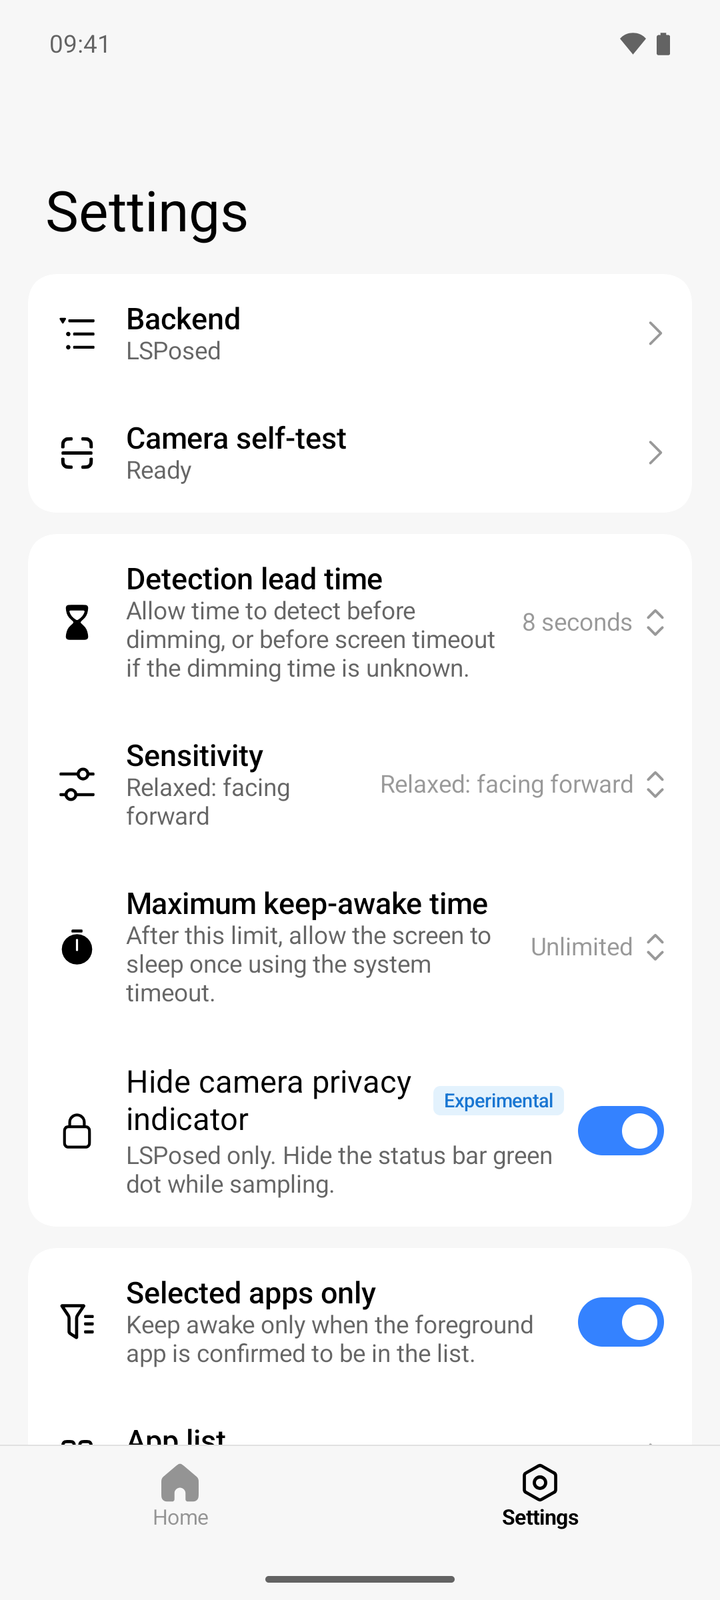
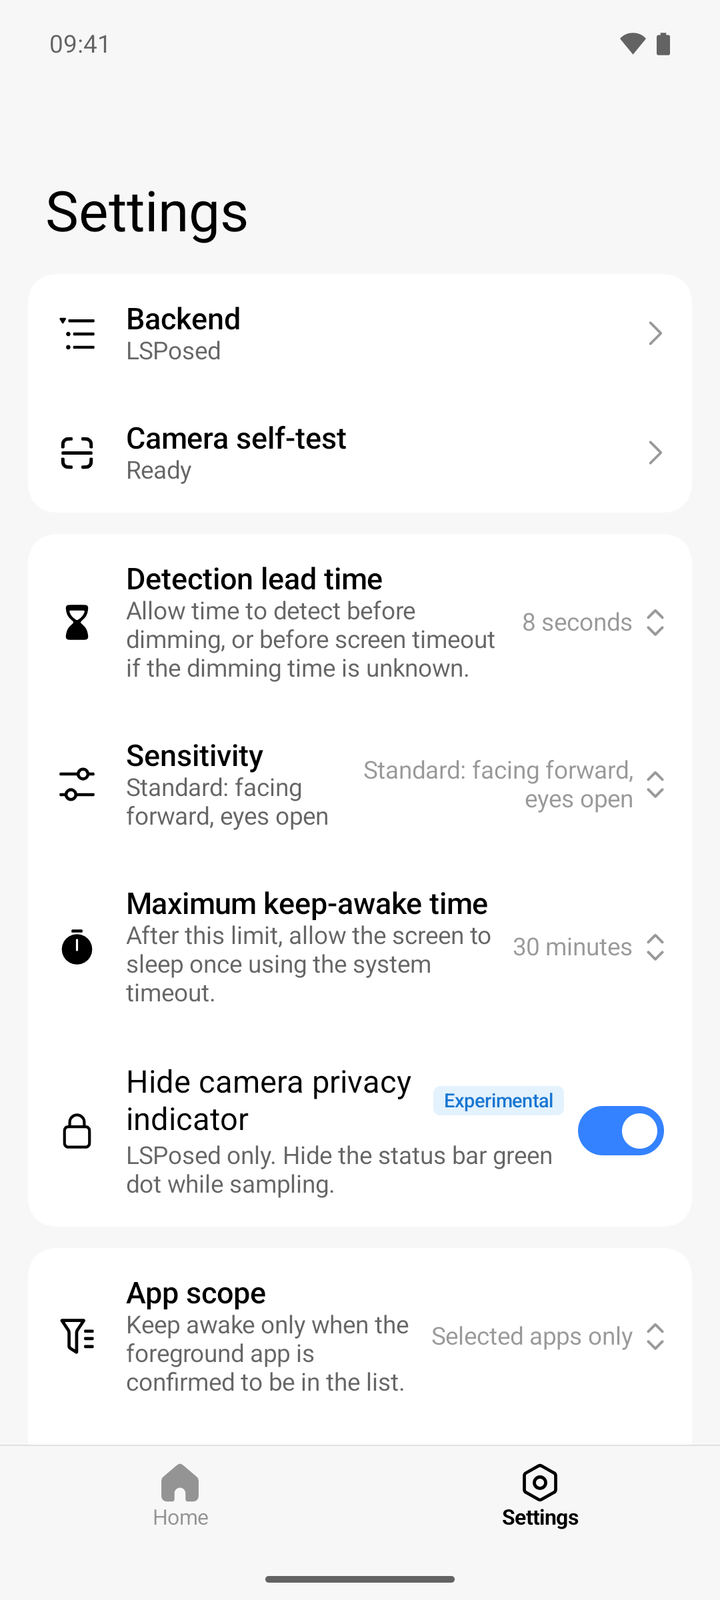
docs(docs): 📝 更新 README 设置页与应用列表截图并记录生效范围真机验收结果
- 在 Pixel_8_API_35 模拟器以演示状态栏重拍中英文设置页与应用列表截图，表头改为应用列表
- 任务清单记录 Xiaomi 12 Pro 上三种后端的黑名单门控、HyperOS 系统应用判定与英文/深色/大字体走查结果，收敛已完成待办并登记未复现的应用语言问题
- 同步文档索引的复核日期与无障碍架构加载时机

diff --git a/docs/plans/todo.md b/docs/plans/todo.md
@@ -42,7 +42,7 @@
 - 运行门控：直接写入自检时间戳以绕过真人自检（只改模拟器上的数据，不改产品代码），后端 Auto 实际使用无障碍，系统超时 30 s。黑名单内的 Maps 门控记录 `skip=Blacklisted`，不启动相机，约 30.7 s 按原超时熄屏；名单外的 Chrome 门控放行并采样，虚拟相机无脸记为 Away，不延后，约 30.2 s 熄屏。
 - 实机套件：`test:device` 退出码 0；新增的黑名单回读用例连续通过并恢复原范围与名单。`ScreenTimeoutRestoreTest` 因开启后主页停在「等待可用后端」而按前提跳过，`main` 构建在同一模拟器上结果相同，记为未执行。
 - 观察：用 `settings put` 在应用运行期间开启无障碍后，主页与后端页仍显示无障碍未就绪，但服务已用无障碍进入 Armed，重装后恢复一致；`ScreenTimeoutRestoreTest` 按前提跳过时没有关闭它刚开启的服务。两者均与本次改动无关，待单独排查。
-- 未执行：真机与真实 ROM 上的黑名单门控、Shizuku/LSPosed 后端下的黑名单前台识别、真人自检后的完整保亮链路。官网展示区与预编译 kmp-showcase 产物仍是旧的白名单开关界面，README 截图未更新。
+- 真机结果见下节「生效范围与应用列表真机验收」。
 
 ## 应用列表系统应用显示与批量操作（2026-10-31）
 
@@ -52,7 +52,26 @@
 - 系统应用判定：Chrome 带 `UPDATED_SYSTEM_APP`，默认显示；Maps、YouTube、设置、时钟等未更新的预装应用默认隐藏；已选的 Gmail（未更新的系统应用）在隐藏状态下仍显示。
 - 交互：搜索 `maps` 时提示「已隐藏 1 个匹配的系统应用」，点按后显示 Maps 并写入 `gazekeep_ui_prefs`；重装（进程重启）后开关仍为开启。搜索非空时「选中搜索结果」把 Maps 并入白名单（2→3）；清空经确认对话框，取消保持 3 个，确认后为 0 且菜单不再提供清空；关闭开关后本页操作过的 Maps、Gmail 仍可见，其余系统应用隐藏。
 - 修复：首轮验收发现搜索时打开菜单，输入法候选栏覆盖菜单；改为打开菜单前清除焦点，复测 `mInputShown` 由 true 变为 false。日志页菜单有相同的打开方式，未在本次处理。
-- 测试后恢复白名单 Chrome、Gmail 并删除 `gazekeep_ui_prefs`。未执行：真机与 HyperOS 等 ROM 上的系统应用标志核对、英文界面实机走查、深色模式与大字体下的菜单和对话框。
+- 测试后恢复白名单 Chrome、Gmail 并删除 `gazekeep_ui_prefs`。真机结果见下节。
+
+## 生效范围与应用列表真机验收（2026-11-01）
+
+环境同上方真机矩阵（Xiaomi 12 Pro，HyperOS `OS2.0.6.0.ULGCNXM`，LSPosed 2.2.1 + Sui/Shizuku），arm64 Debug 包为 `f0ee8b2` 加本节修复的未提交工作树，覆盖安装并保留数据；系统超时 60 s、提前量 8 s、宽松灵敏度、上限无限制。门控结论取自调试日志的 `DecisionRecord` 与 `dumpsys power` 的 `mWakefulness`，Chrome 为黑名单应用，便签（`com.miui.notes`）为名单外应用。
+
+| 后端（锁定）     | 黑名单内 Chrome                                                               | 名单外便签                        |
+| ---------------- | ----------------------------------------------------------------------------- | --------------------------------- |
+| LSPosed          | `skip=Blacklisted` ×2，按原超时熄屏                                           | 放行、真人注视 Looking、延长 3 次 |
+| Shizuku          | `skip=Blacklisted`，约 58 s 熄屏                                              | 放行、Looking、延长 4 次          |
+| 无障碍（修复前） | 首轮 Blacklisted，随后被换成名单外                                            | —                                 |
+| 无障碍（修复后） | `skip=Blacklisted`，约 60 s 熄屏；中途注入滑动后仍 Blacklisted 并约 59 s 熄屏 | 放行、Looking、延长 2 次          |
+
+- 无障碍前台缺陷：修复前无障碍后端把任何包的窗口状态事件当作前台，HyperOS 传送门 `com.miui.contentextension` 的事件把仍在前台的 Chrome 换成名单外包名，于是放行并延长 2 次。现在只接受能解析为该包 Activity 的事件（`A11yForegroundTest` 在旧实现下失败后通过），修复后复测见上表；传送门事件的触发条件未定位，修复后未再出现。
+- 系统应用判定（HyperOS）：启动器可见 234 个应用，带 `FLAG_SYSTEM` 的 19 个中 13 个为 `UPDATED_SYSTEM_APP`（浏览器、日历、相册、视频、应用商店等）默认显示；未更新的相机、文件管理、短信、下载管理、设置与 `com.miui.miservice` 6 个默认隐藏，打开「显示系统应用」后出现。`/product/data-app` 的可卸载预装（笔记、计算器、天气、多看等）安装为普通应用，不带系统标志，按用户应用显示。
+- 走查：深色模式下中文与英文、字体 1.3 倍的设置页、应用页更多菜单、清空确认对话框均完整显示；清空确认后名单为 0 且菜单不再提供清空。英文发现「1 apps excluded」等单复数错误，计数文案改为「Excluded: 1」「Selected: 1」等写法，自定义提前量与上限改用 `s`/`min`。英文 1.3 倍字体下生效范围说明被右侧取值挤成窄列，与灵敏度等行同一布局，未改。搜索相关操作因输入法会改写 `input text` 未在真机执行，以模拟器结果为准。
+- 无障碍开启：`settings put` 写入的 GazeKeep 服务会被系统从列表剔除，系统设置中开关为灰色并提示受限制的设置；临时把 `ACCESS_RESTRICTED_SETTINGS` 设为 allow 后由用户手动开启，测试后关闭并恢复为 deny。使用说明已补充该限制。
+- 观察：一次在用户开启无障碍后，按应用语言为英文时设置页与后端页显示为中文（少数文案仍为英文）；之后杀进程由服务拉起、改字体、往返系统设置和重新开启无障碍均未复现，原因未定位。
+- 官网与 README：重新生成 kmp-showcase 预编译产物，官网生效范围、常见问题与开始步骤文案补充黑名单；README 设置页与应用列表截图（中英各 2 张）在 `Pixel_8_API_35` 模拟器以演示状态栏重拍。
+- 测试后恢复：无障碍列表、受限设置、字体、应用语言、悬浮通知、输入法和 GazeKeep 配置文件（逐字节比对一致），调试日志已关闭并清空，删除 `gazekeep_ui_prefs`。
 
 ## 官网当前验证（2026-10-30）
 
@@ -76,8 +95,8 @@
 - [ ] 在支持 WebGPU 的真实设备补验 Shader、主题切换、离屏/后台恢复和 120 Hz 表现；补 Safari/Firefox、实体触摸、地址栏伸缩和系统缩放矩阵。
 - [ ] 完成 `v1.1.3` 模块仓库真实同步，确认 Release 非草稿、索引 bot 成功，并在 LSPosed 管理器中验证安装和更新提示。
 - [ ] 维护者离线备份正式签名密钥库与密码；密钥丢失后无法覆盖升级已安装版本。
-- [ ] 在真机上验收生效范围的黑名单门控，覆盖三种后端的前台识别；重新生成官网 kmp-showcase 产物、更新官网展示区和 README 应用列表截图。
-- [ ] 在真机与 HyperOS 等 ROM 上核对应用列表的系统应用判定（预装第三方应用的标志因 ROM 而异），并走查英文、深色与大字体下的菜单和清空对话框。
+- [ ] 在 HyperOS 以外的 ROM 上核对应用列表的系统应用判定（预装应用的标志因 ROM 而异）与无障碍后端的前台识别。
+- [ ] 排查按应用语言为英文时页面偶发显示中文的问题（触发条件未知，见上方真机验收）。
 - [ ] 排查外部开启无障碍后页面就绪状态不刷新的问题，以及 `ScreenTimeoutRestoreTest` 按前提跳过时残留已开启服务的问题。
 
 以上未执行项不计为当前版本通过；实际 APK、设备、ROM、框架和权限条件变化时必须重新标识产物并重跑受影响验收。

diff --git a/.agents/docs-index.md b/.agents/docs-index.md
@@ -20,7 +20,7 @@
 | 文档                          | 类型     | 加载时机                             | 维护状态 | 最后复核   |
 | ----------------------------- | -------- | ------------------------------------ | -------- | ---------- |
 | `../docs/product/overview.md` | 产品规范 | 核对目标、范围、默认行为与结果语言时 | 持续维护 | 2026-10-31 |
-| `../docs/product/usage.md`    | 使用说明 | 安装、自检、启用后端或故障排查时     | 持续维护 | 2026-10-31 |
+| `../docs/product/usage.md`    | 使用说明 | 安装、自检、启用后端或故障排查时     | 持续维护 | 2026-11-01 |
 
 ## 架构
 
@@ -32,7 +32,7 @@
 | `../docs/architecture/capture-classification.md` | 检测架构 | 修改 CameraX、传感器门控、ML Kit、阈值或投票时                                                                                                                                                                                                                                                     | 持续维护 | 2026-10-14 |
 | `../docs/architecture/web/website.md`            | 官网架构 | 修改 Astro 双语官网、组件与样式拆分、颜色令牌与主题切换、图标、入场与滚动动效、连续叙事、立体设备、KMP 展示与内屏交互（含指针转发的浏览器兼容、内屏拖动滚动与各区段自动演示）、视觉联动、桌面与移动端滚动吸附、滚动性能、首屏加载、分享元数据、站点统计、Cloudflare Pages 托管部署或官网 CI 发布时 | 持续维护 | 2026-10-31 |
 | `../docs/architecture/ui.md`                     | UI 架构  | 修改页面、导航、日志、自检、平台契约、应用列表（含系统应用显示与批量操作）、应用内语言、官网演示接入点或界面截图基线时                                                                                                                                                                             | 持续维护 | 2026-10-31 |
-| `../docs/architecture/backends/a11y.md`          | 后端架构 | 修改无障碍事件、Hold 或空闲时钟时                                                                                                                                                                                                                                                                  | 持续维护 | 2026-10-27 |
+| `../docs/architecture/backends/a11y.md`          | 后端架构 | 修改无障碍事件、前台来源、Hold 或空闲时钟时                                                                                                                                                                                                                                                        | 持续维护 | 2026-11-01 |
 | `../docs/architecture/backends/shizuku.md`       | 后端架构 | 修改 shell Binder、独立前台来源、同步超时恢复、临时超时退路或开机恢复时                                                                                                                                                                                                                            | 持续维护 | 2026-10-27 |
 | `../docs/architecture/backends/lsposed.md`       | 后端架构 | 修改系统候选、入口兼容、前台来源、seq、指示器、隐藏 API 豁免或打包时                                                                                                                                                                                                                               | 持续维护 | 2026-10-27 |
 
@@ -48,4 +48,4 @@
 | 文档                                             | 类型     | 加载时机                                                                                | 维护状态 | 最后复核   |
 | ------------------------------------------------ | -------- | --------------------------------------------------------------------------------------- | -------- | ---------- |
 | `../docs/plans/20261014-v1-stability-release.md` | 实施计划 | 推进 API 102 后的相机生命周期、异常恢复与 v1 发布验收时                                 | 实施中   | 2026-10-14 |
-| `../docs/plans/todo.md`                          | 任务清单 | 接续任务、核对候选、真机矩阵与签名产物结果、LSPosed 模块仓库提审与同步、CI 或交接风险时 | 持续维护 | 2026-10-31 |
+| `../docs/plans/todo.md`                          | 任务清单 | 接续任务、核对候选、真机矩阵与签名产物结果、LSPosed 模块仓库提审与同步、CI 或交接风险时 | 持续维护 | 2026-11-01 |

diff --git a/README.md b/README.md
@@ -24,7 +24,7 @@
 
 ## 核心特性与体验
 
-- **按需短时采样，无感低打扰**：平时绝不常驻占用摄像头，仅在临近系统降亮或熄屏前短暂采样 1～3 帧，看一眼就立刻关闭。检测与推理全程在端上离线完成；成功帮忙保亮时安静无感、没有任何弹窗，只在服务异常或后端掉线时才会发通知提醒你。
+- **按需短时采样，无感低打扰**：平时绝不常驻占用摄像头，仅在临近系统降亮或熄屏前短暂采样 1 ～ 3 帧，看一眼就立刻关闭。检测与推理全程在端上离线完成；成功帮忙保亮时安静无感、没有任何弹窗，只在服务异常或后端掉线时才会发通知提醒你。
 - **绝不盲目常亮**：遇到暗光、侧脸、看不清（「这次没看清」）、画面中出现多人，或摄像头正被系统相机、扫码应用占用时，它会果断放行，让系统正常熄屏。不仅如此，它还内置了单次最长保亮保护（默认 30 分钟，支持自定义或设为无限制），达到上限时释放保亮能力，目标是强制熄屏一次。
 - **三种后端适配不同旧设备条件**：考虑到大家的设备条件和折腾程度不同，提供 **LSPosed**（系统框架级联动）、**Shizuku**（ADB / 无线调试授权，免 Root）和 **无障碍服务**（零门槛开箱即用）三种工作后端，支持自动按优先级优选或手动锁定。
 - **白名单 / 黑名单生效范围与可视化自检**：默认仅对白名单应用生效，你可以只勾选需要的阅读或浏览类 App，不在全局盲目触发；也可以改为「排除黑名单应用」，只排除视频、相机、导航等无需保亮的 App。内置两步式相机自检向导，搭配克制、清晰的设置界面，支持自由调节检测提前量、灵敏度，以及按需开启本地枚举诊断日志。
@@ -34,8 +34,8 @@
 |                                         主页状态                                          |                                        参数设置                                        |
 | :---------------------------------------------------------------------------------------: | :------------------------------------------------------------------------------------: |
 |  <img src="docs/assets/screenshot-home.png" width="320" alt="主页运行状态与环境概览" />   | <img src="docs/assets/screenshot-settings.png" width="320" alt="检测与保护参数设置" /> |
-|                                       **工作后端**                                        |                                     **应用白名单**                                     |
-| <img src="docs/assets/screenshot-backend.png" width="320" alt="三种工作后端与自动选择" /> |     <img src="docs/assets/screenshot-apps.png" width="320" alt="应用白名单管理" />     |
+|                                       **工作后端**                                        |                                      **应用列表**                                      |
+| <img src="docs/assets/screenshot-backend.png" width="320" alt="三种工作后端与自动选择" /> | <img src="docs/assets/screenshot-apps.png" width="320" alt="白名单与黑名单应用选择" /> |
 
 ## 隐私与安全
 

diff --git a/README_en.md b/README_en.md
@@ -34,8 +34,8 @@ With GazeKeep, you can confidently lower your system display timeout to an ultra
 |                                                   Home Status                                                   |                                                  Settings                                                  |
 | :-------------------------------------------------------------------------------------------------------------: | :--------------------------------------------------------------------------------------------------------: |
 |     <img src="docs/assets/screenshot-home-en.png" width="320" alt="Home status and environment overview" />     | <img src="docs/assets/screenshot-settings-en.png" width="320" alt="Detection and protection parameters" /> |
-|                                                  **Backends**                                                   |                                             **App Whitelist**                                              |
-| <img src="docs/assets/screenshot-backend-en.png" width="320" alt="Three working backends and auto selection" /> |        <img src="docs/assets/screenshot-apps-en.png" width="320" alt="App whitelist management" />         |
+|                                                  **Backends**                                                   |                                                **App List**                                                |
+| <img src="docs/assets/screenshot-backend-en.png" width="320" alt="Three working backends and auto selection" /> |   <img src="docs/assets/screenshot-apps-en.png" width="320" alt="Included and excluded app selection" />   |
 
 ## Privacy & Security
 
